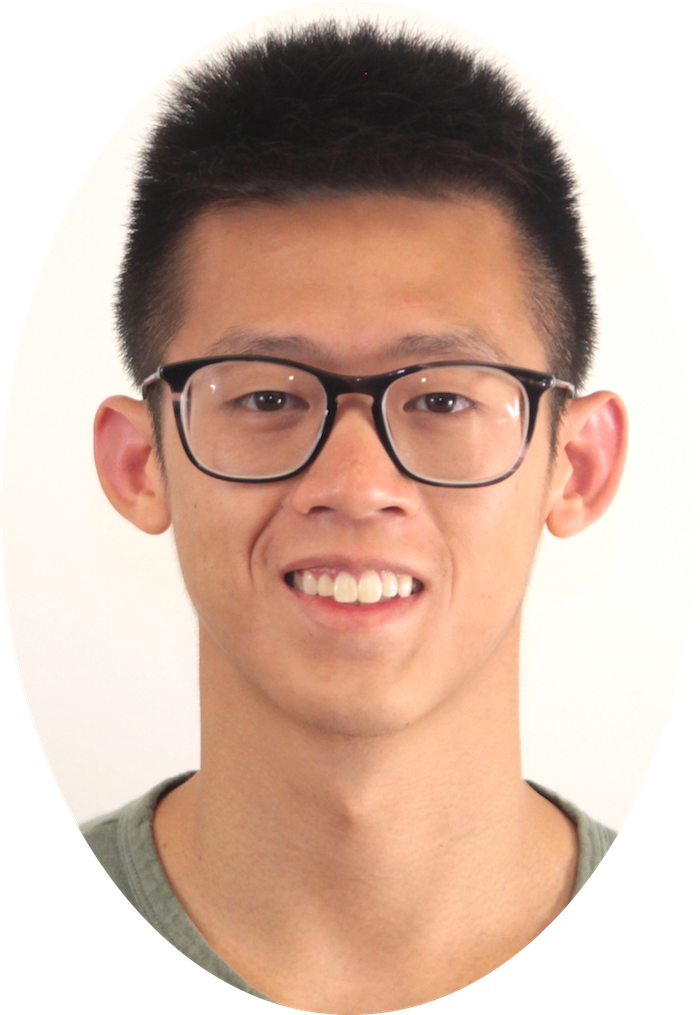
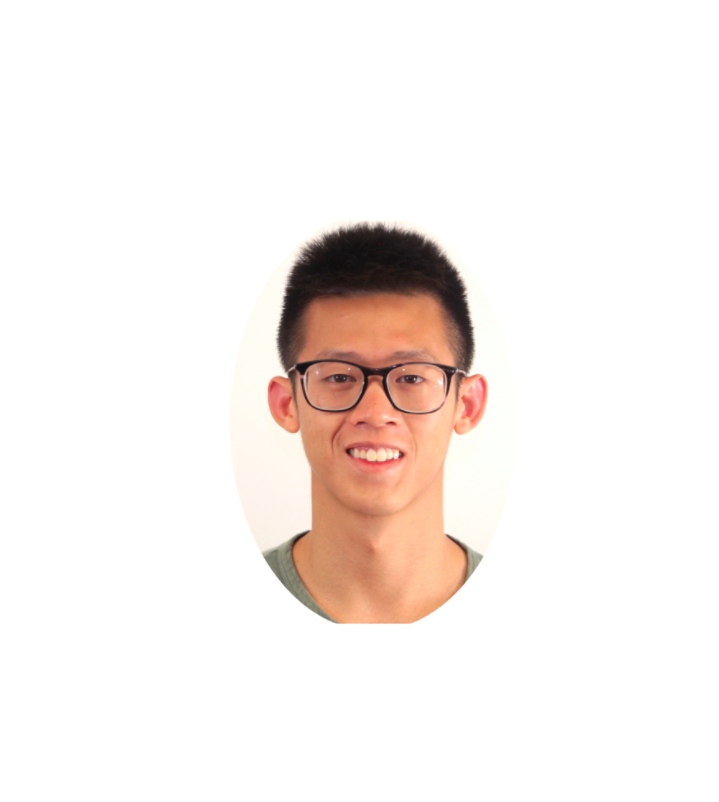
fix prof image

diff --git a/index.html b/index.html
@@ -32,7 +32,7 @@
 							</ul>
 						</div>
 						<div class="image" style="background-color: white">
-							<img src="images/me.png" alt="" style="background-color: white; width:288px; height:403px; transform: translate(80%, 55%);"/>
+							<img src="images/me.png" alt="" style="background-color: white"/>
 						</div>
 					</section>
 
